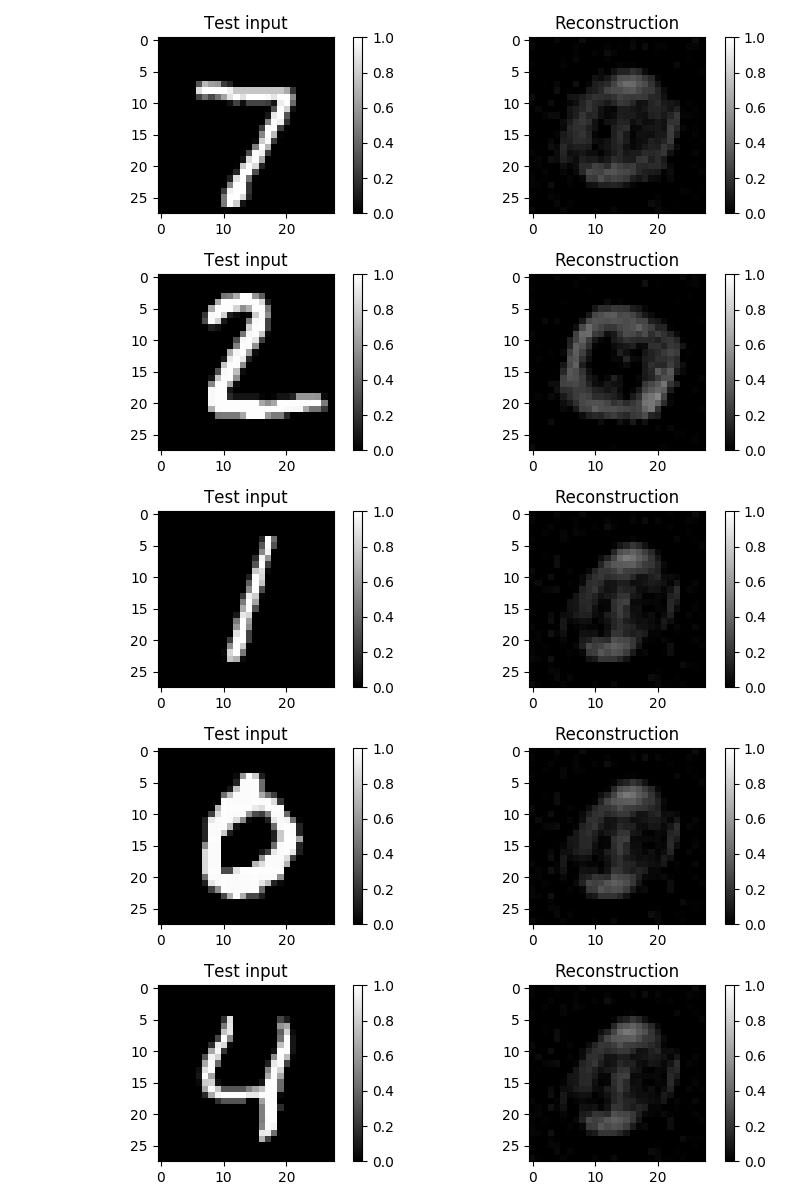
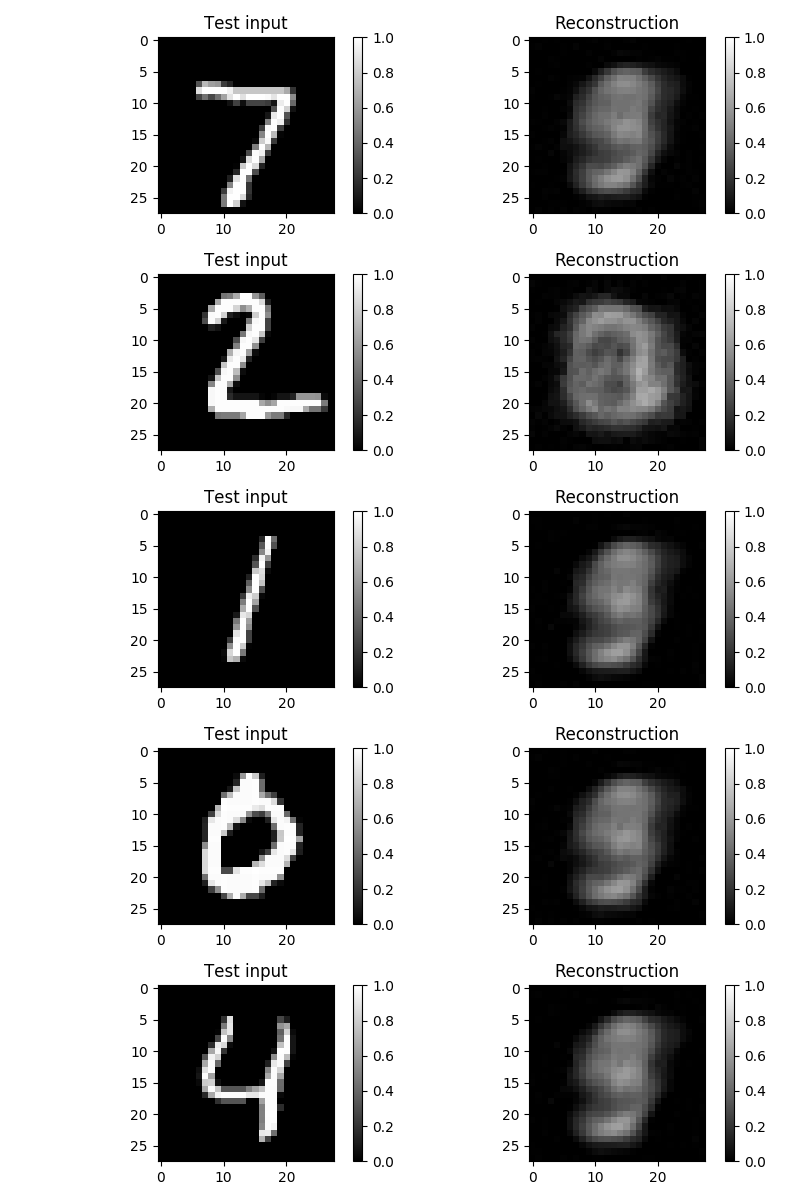
ignore variance in reconstruction loss

diff --git a/train_semi_supervised.py b/train_semi_supervised.py
@@ -11,7 +11,6 @@ from VAE.classifier import softmax_classifier
 from VAE.semi_supervised.decoder import generator_network
 from VAE.semi_supervised.encoder import recognition_network
 from VAE.utils.MNSIT_prepocess import preprocess_train_data
-from VAE.utils.distributions import tf_normal_logpdf
 from VAE.utils.metrics import cls_accuracy, print_test_accuracy, convert_labels_to_cls, plot_images
 
 sys.path.append(os.getcwd())
@@ -83,8 +82,7 @@ def train_batch(idx, x_images, y_labels, loss, optimizer):
 
 
 def reconstruct(x_test):
-    mean, variance = session.run([x_hat, x_logvar], feed_dict={x: x_test})
-    return mean
+    return session.run(x_hat, feed_dict={x: x_test})
 
 
 def test_reconstruction():
@@ -121,7 +119,7 @@ def compute_unlabeled_loss():
 
 
 def reconstruction_loss():
-    return -tf.reduce_sum(tf_normal_logpdf(x, x_hat, x_logvar), axis=1)
+    return tf.reduce_sum(tf.squared_difference(x, x_hat), axis=1)
 
 
 def predict_cls(images, labels, cls_true):
